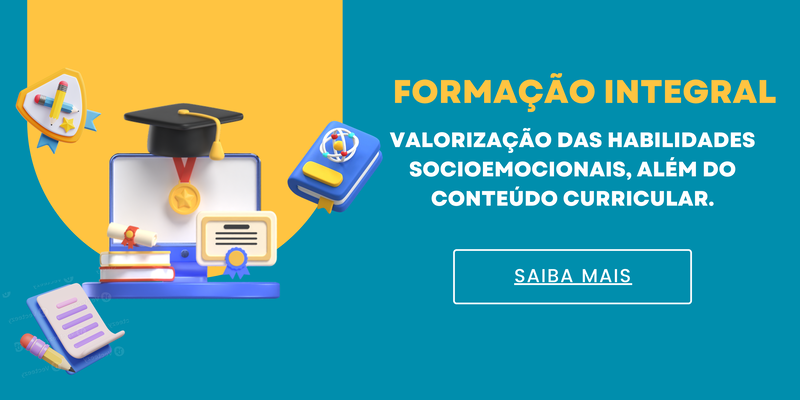
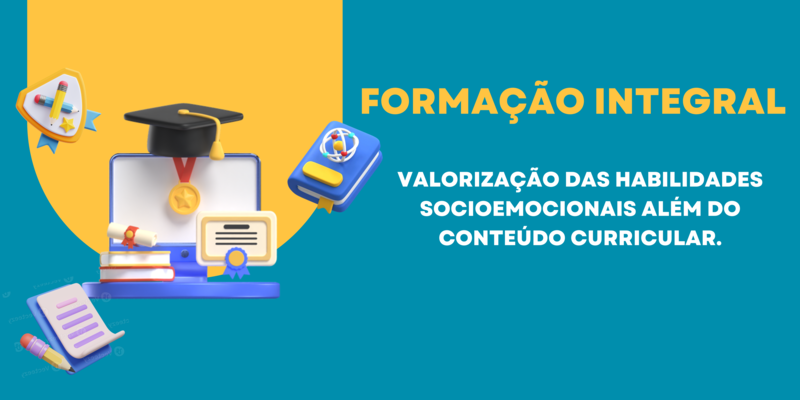
Add files via upload

diff --git a/index.html b/index.html
@@ -36,7 +36,7 @@
                         <!-- Slides -->
                         <div class="swiper-slide">
                             <div class="p_img">
-                                <img src="imagens/A Educação Além da Sala de Aula (9).png"/>
+                                <img src="imagens/A Educação Além da Sala de Aula (10).png"/>
                             </div>    
                         </div>
                 
@@ -96,7 +96,7 @@
         <article id="conteudo3">
 
             <p>
-                Os Itinerários Formativos são disciplinas que fazem parte do currículo e oferecem uma formação mais personalizada, focada nas áreas de interesse e nas habilidades que o aluno deseja desenvolver. Eles foram criados para que cada estudante tenha um caminho de aprendizado mais alinhado com suas escolhas pessoais e com seus objetivos de vida,
+                Os itinerários formativos são disciplinas que fazem parte do currículo e oferecem uma formação mais personalizada, focada nas áreas de interesse e nas habilidades que o aluno deseja desenvolver. Eles foram criados para que cada estudante tenha um caminho de aprendizado mais alinhado com suas escolhas pessoais e com seus objetivos de vida,
                  seja para o mercado de trabalho ou para a continuidade dos estudos em uma universidade.
             </p>
 
@@ -109,7 +109,7 @@
                 <img class="imagem" src="imagens/itinerario_humanas.jpg">
                 <article>
                     <p id="texto_int_huma">
-                        Os itinerários de Humanas são voltados para o estudo das ciências sociais,
+                        Os itinerários de humanas são voltados para o estudo das ciências sociais,
                          linguagens e comportamentos humanos, oferecendo uma abordagem mais crítica, reflexiva e interpretativa da sociedade.
                     </p>
                 </article>
@@ -126,7 +126,7 @@
 
               <article>
                 <p id="texto_int_exatas">
-                    Os itinerários de Exatas são voltados para o desenvolvimento de habilidades analíticas e lógicas,
+                    Os itinerários de exatas são voltados para o desenvolvimento de habilidades analíticas e lógicas,
                      com foco em ciências, matemática e tecnologias. 
                 </p>
               </article>
@@ -144,7 +144,7 @@
     </section>
 
     <section class="contente_clube">
-        <h1 class="sub_titulo"> Clube juvenil </h1>
+        <h1 class="sub_titulo"> Clube Juvenil </h1>
         <br>
         <br>
         <br>
@@ -152,61 +152,64 @@
         <article  id="conteudo3">
             
             <p>
-                os Clubes são espaços dedicados à exploração de interesses pessoais, ao desenvolvimento de habilidades criativas e ao fortalecimento de competências socioemocionais. Os clubes complementam a formação acadêmica,
+                Os clubes são espaços dedicados à exploração de interesses pessoais, ao desenvolvimento de habilidades criativas e ao fortalecimento de competências socioemocionais. Os clubes complementam a formação acadêmica,
                  permitindo que os alunos saiam da rotina das disciplinas tradicionais e se envolvam com atividades que promovem a expressão individual, o trabalho em equipe e a cidadania ativa.
             </p>
         </article>
         <center>
             <div class="lista_clubes">
-                <ul class="sub_lit_clubes">
+                <center>
+                        <ul class="sub_lit_clubes">
 
-                    <div class="clubes_geral" onmousemove="clube_1()" onmouseout="revercao()" >
-                       
-                        <img id="clube_g" class="img_liste_clubes" src="imagens/photo.jpg" alt="Geek">
-                        <h5 id="nome_1"></h5>
-                    </div>
+                            <div class="clubes_geral" onmousemove="clube_1()" onmouseout="revercao()" >
+                            
+                                <img id="clube_g" class="img_liste_clubes" src="imagens/photo.jpg" alt="Geek">
+                                <h5 id="nome_1"></h5>
+                            </div>
 
-                    <div  class="clubes_geral" onmousemove="clube_2()" onmouseout="revercao()">
-                    
-                        <img id="clube_a" class="img_liste_clubes" src="imagens/IMG-20241201-WA0014.jpg" alt="Arte crafth">
-                        <h5 id="nome_2"></h5>
-                    </div>
+                            <div  class="clubes_geral" onmousemove="clube_2()" onmouseout="revercao()">
+                            
+                                <img id="clube_a" class="img_liste_clubes" src="imagens/IMG-20241201-WA0014.jpg" alt="Arte crafth">
+                                <h5 id="nome_2"></h5>
+                            </div>
 
-                    <div class="clubes_geral" onmousemove="clube_3()" onmouseout="revercao()">
+                            <div class="clubes_geral" onmousemove="clube_3()" onmouseout="revercao()">
+                                
+                                <img id="clube_o" class="img_liste_clubes" src="imagens/download (1).jpg" alt="Arte e oratoria">
+                                <h5 id="nome_3"></h5>
+                            </div>
+
+                            <div class="clubes_geral" onmousemove="clube_4()" onmouseout="revercao()">
+                                
+                                <img id="clube_j" class="img_liste_clubes" src="imagens/download.jpg" alt=" jogos">
+                                <h5 id="nome_4"></h5>
+                            </div>
+
+                        </ul>
                         
-                        <img id="clube_o" class="img_liste_clubes" src="imagens/download (1).jpg" alt="Arte e oratoria">
-                        <h5 id="nome_3"></h5>
-                    </div>
+                        <ul class="sub_lit_clubes_2">
 
-                    <div class="clubes_geral" onmousemove="clube_4()" onmouseout="revercao()">
+                        <div  class="clubes_geral_2" onmousemove="clube_5()" onmouseout="revercao()">
                         
-                        <img id="clube_j" class="img_liste_clubes" src="imagens/download.jpg" alt=" jogos">
-                        <h5 id="nome_4"></h5>
-                    </div>
+                            <img id="clube_c" class="img_liste_clubes" src="imagens/Universal declaration of human rights Customizable Isometric Illustrations _ Amico Style.jpg" alt="crimes">
+                            <h5 id="nome_5"></h5>
+                        </div>
 
-                </ul>
-                   
-                <ul class="sub_lit_clubes_2">
+                        <div class="clubes_geral_2" onmousemove="clube_6()" onmouseout="revercao()">
+                            
+                            <img id="clube_l" class="img_liste_clubes" src="imagens/Ilustração de literatura desenhada à mão _ Vetor Grátis.jpg" alt="literatura">
+                            <h5 id="nome_6"></h5>
+                        </div>
 
-                <div  class="clubes_geral_2" onmousemove="clube_5()" onmouseout="revercao()">
-                   
-                    <img id="clube_c" class="img_liste_clubes" src="imagens/Universal declaration of human rights Customizable Isometric Illustrations _ Amico Style.jpg" alt="crimes">
-                    <h5 id="nome_5"></h5>
-                </div>
+                        <div class="clubes_geral_2" onmousemove="clube_7()" onmouseout="revercao()">
+                        
+                            <img id="clube_t" class="img_liste_clubes" src="imagens/silhouette.jpg" alt="tomada2">
+                            <h5 id="nome_7"></h5>
+                        </div>
 
-                <div class="clubes_geral_2" onmousemove="clube_6()" onmouseout="revercao()">
-                    
-                    <img id="clube_l" class="img_liste_clubes" src="imagens/Ilustração de literatura desenhada à mão _ Vetor Grátis.jpg" alt="literatura">
-                    <h5 id="nome_6"></h5>
-                </div>
+                        </ul>
 
-                <div class="clubes_geral_2" onmousemove="clube_7()" onmouseout="revercao()">
-                   
-                    <img id="clube_t" class="img_liste_clubes" src="imagens/silhouette.jpg" alt="tomada2">
-                    <h5 id="nome_7"></h5>
-                </div>
-
-                </ul>
+                </center>
 
             </div>
         </center>

diff --git a/js/style_script.js b/js/style_script.js
@@ -10,11 +10,13 @@ var txt_b = window.document.getElementById("txt_bb")
 
 function humanas_clique(){
       if (animacao_humanas.style.height == "300px"){
+            
             animacao_humanas.style.height="190px"
             texto_int_huma.innerText="Os itinerários de Humanas são voltados para o estudo das ciências sociais,linguagens e comportamentos humanos, oferecendo uma abordagem mais crítica, reflexiva e interpretativa da sociedade."
             text_b.innerText="Saiba mais"
             animacao_h.style.backgroundColor="black"
             animacao_h.style.marginTop="40px"
+
       }else{
              animacao_humanas.style.height="300px"
              texto_int_huma.innerText=
@@ -28,11 +30,13 @@ function humanas_clique(){
 
 function exatas_clique(){
       if (animacao_exatas.style.height == "300px"){
+
             animacao_exatas.style.height="190px"
             texto_int_exatas.innerText=" Os itinerários de Exatas são voltados para o desenvolvimento de habilidades analíticas e lógicas,com foco em ciências, matemática e tecnologias. "
             txt_b.innerText="Saiba mais"
             animacao_x.style.backgroundColor="black"
             animacao_x.style.marginTop="40px"
+            
       }else{
             texto_int_exatas.innerText="Lorem ipsum dolor sit amet consectetur adipisicing elit. Maxime quo libero voluptas repellendus sunt modi consequatur voluptatem, fuga incidunt, atque suscipit quos iure. Rem, sit laborum soluta saepe sed esse.Lorem ipsum dolor sit amet consectetur adipisicing elit. Laboriosam incidunt nam commodi totam obcaecati laborum, deserunt quibusdam repellendus architecto ipsam ea excepturi aut amet odit quidem, accusamus autem, asperiores saepe."
             animacao_exatas.style.height="300px"

diff --git a/contato.html b/contato.html
@@ -63,10 +63,11 @@
     <br><br>
     <center>
         <hr>
+    </center>
         <br>
         <br>
         <section class="content_mae">
-            <center>
+        <center>
                 <h2>
                     Informações adicionais:
                     <br>
@@ -90,7 +91,7 @@
                 </div>
             </center>
     
-            <center>
+         
                 <div class="content_local">
                     <br>
                     <br>
@@ -105,10 +106,9 @@
                         <iframe src="https://www.google.com/maps/embed?pb=!1m18!1m12!1m3!1d468231.6515104223!2d-46.75769700925831!3d-23.530352306708266!2m3!1f0!2f0!3f0!3m2!1i1024!2i768!4f13.1!3m3!1m2!1s0x94ce67014308e0d5%3A0xe9c83f4f4e1bfc0a!2sE.E.%20HELENA%20LOMBARDI%20BRAGA!5e0!3m2!1spt-BR!2sbr!4v1732400591466!5m2!1spt-BR!2sbr" width="250" height="150" style="border:0;" allowfullscreen="" loading="lazy" referrerpolicy="no-referrer-when-downgrade"></iframe>
                     </center>
                 </div>
-            </center>
            
         </section>    
-    </center>
+
 
 
 

diff --git a/css/contato.css b/css/contato.css
@@ -9,7 +9,7 @@
 .box_content{
     position:absolute;
     margin-top: -590px;
-    margin-left: 60%;
+    margin-left: 50%;
     background-color:rgba(0, 0, 0, 0.329);
     height: 500px;
     width: 400px;
@@ -64,14 +64,12 @@ h2{
 
 .content_mae{
     background-color:black;
-    padding-bottom: 50px;
 }
 
 .content_informacoes_de_contato{
     color: white;
-    height: 200px;
+    height: 300px;
     margin-top: 20px;
-    padding: 10px;
     align-items: center;
     background-color: black;
 }
@@ -89,18 +87,28 @@ ul{
 .content_local{
      margin-top: 39px;
      color: white;
-     padding: 20px;
-     margin-bottom: -520px;
-     background-color: black;
+     background-color:black;
+}
+
+.content_local h3{
+    margin-left: 70px;
+}
+
+iframe{
+    margin-left: 50px;
+
 }
 
 
 
 footer{
-    position: relative;
-    margin-top: 500px;
+    margin-top: 0%;
+    margin-bottom: -50%;
     background-color: rgb(10, 10, 10);
+   
     padding: 10px;
     color: white;
     text-align: center;
+    width: 99%;
+    margin-right: -1px;
 }

diff --git a/css/style.css b/css/style.css
@@ -157,7 +157,7 @@ section .box_itinerario{
 .box_itinerario{
       position: relative;
       margin-top: -20px;
-      height: 360px;
+      height: 260px;
       width:800px ;
       display:flex;
       place-items: center;
@@ -165,7 +165,7 @@ section .box_itinerario{
 
 .box_itinerario div{
     position: relative;
-    height: 280px;
+    height: 190px;
     width: 540px;
     margin: 20px;
     border-radius: 5px;
@@ -177,8 +177,8 @@ section .box_itinerario{
 .box_itinerario div:hover{
     position: relative;
     top: -13px;
-    /*box-shadow:4px 6px 14px #13131f6d;*/
-    box-shadow: 6px 6px 2px 1px #13131f6d;
+    box-shadow:4px 6px 14px #13131f6d;
+   /* box-shadow: 6px 6px 2px 1px #13131f6d;*/
    
 } 
 
@@ -312,12 +312,12 @@ div button{
 .sub_lit_clubes{
     
     justify-content: center;
-    margin-left: 200px;
+    margin-left: 30px;
 }
 
 .sub_lit_clubes_2{
     justify-content: center;
-    margin-left: 200px;
+    margin-left: 30px;
 }
 
 .clubes_geral_2{
